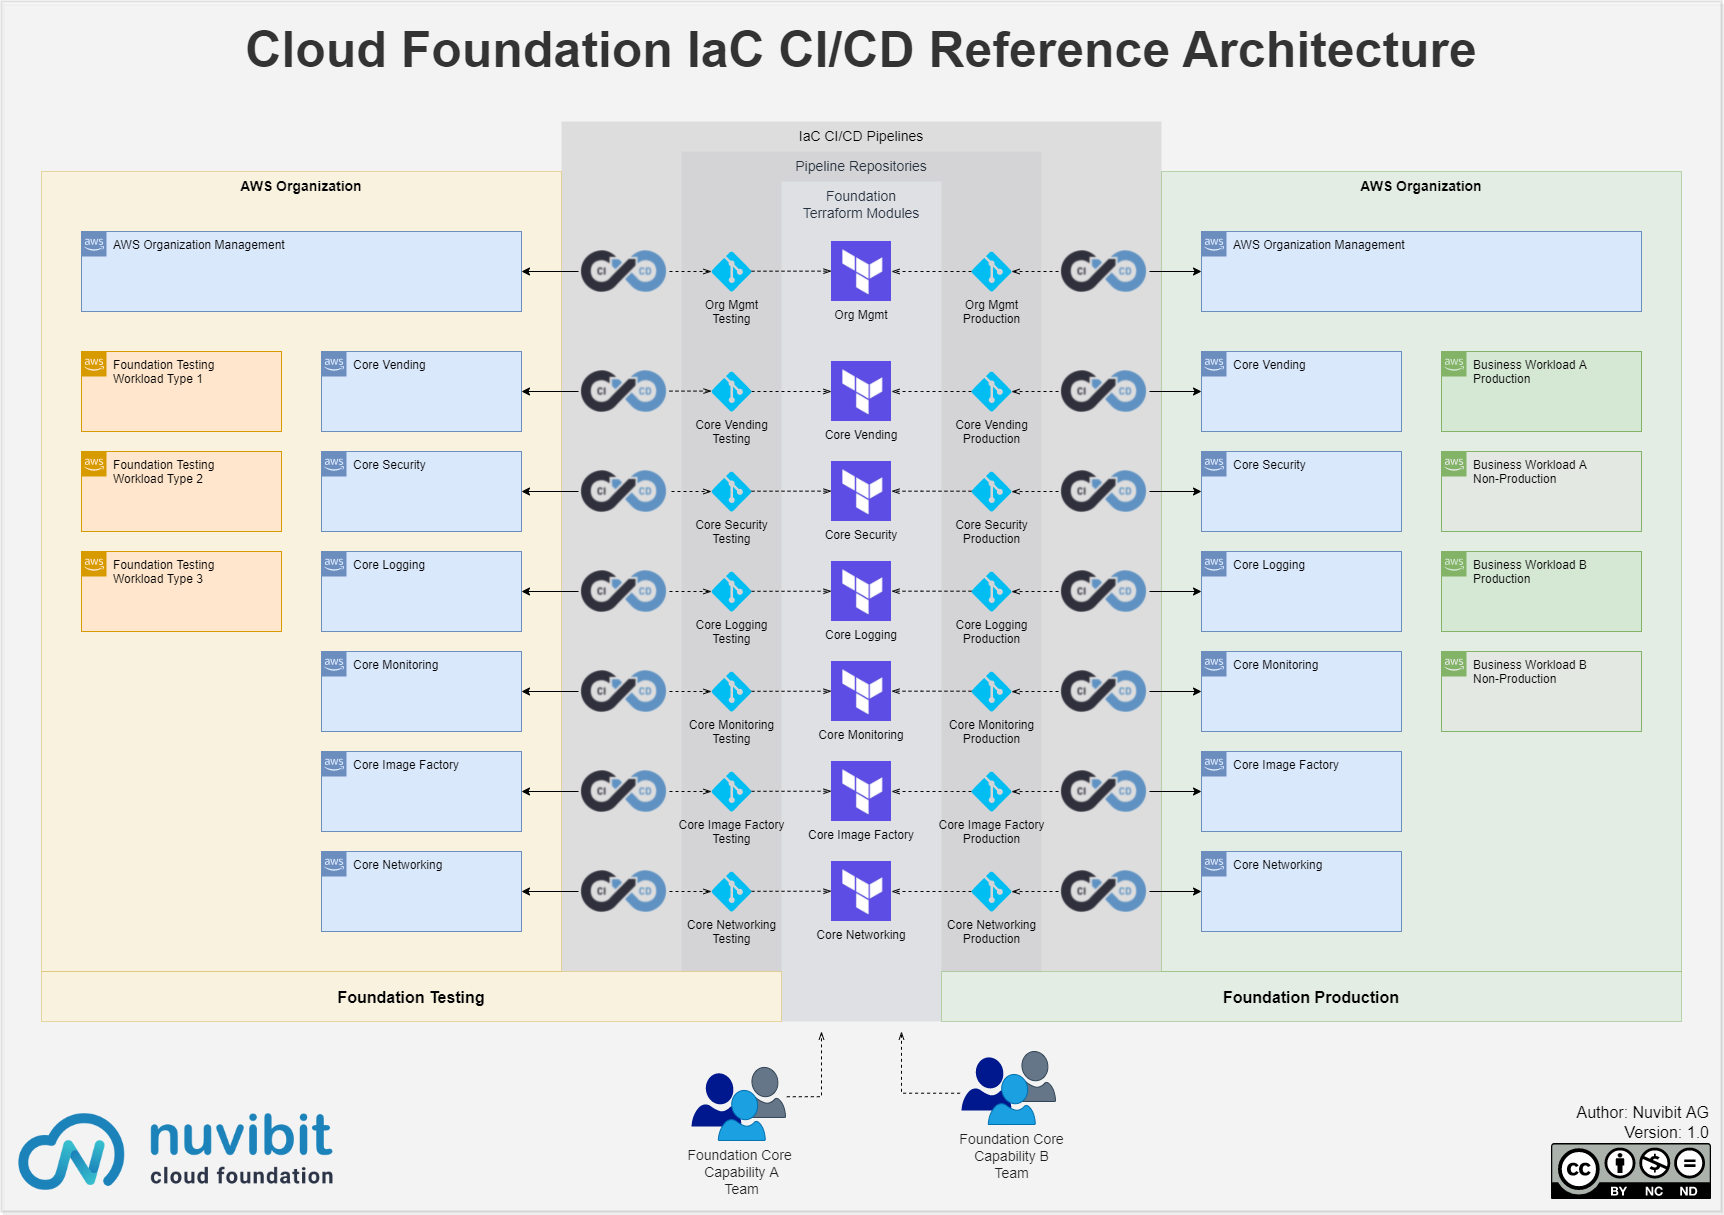
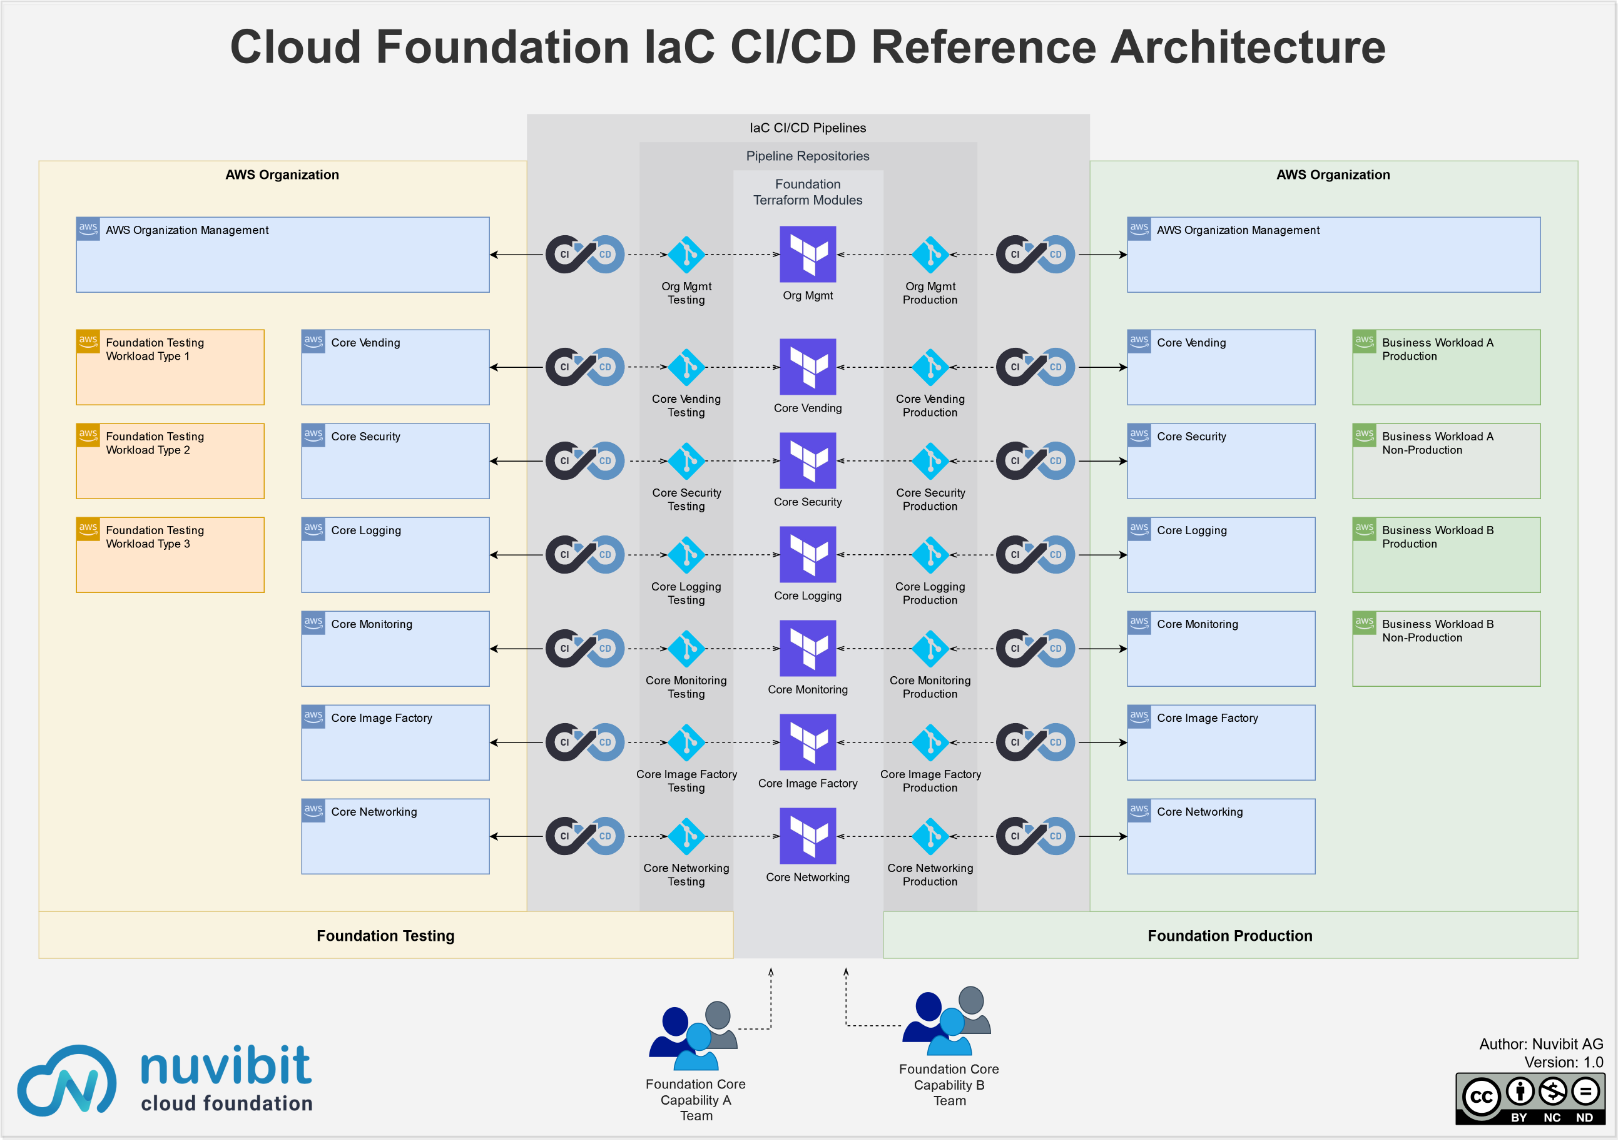
updating images

diff --git a/content/deutsch/blog/aws-foundation-testing.md b/content/deutsch/blog/aws-foundation-testing.md
@@ -36,7 +36,7 @@ Each of these repositories has its own CI/CD pipeline which is responsible for d
 
 The only difference in the CI/CD pipeline configuration is that some point to a separate identical AWS environment.
 
-![img](images/blog/aws-foundation-testing/aws-foundation-cicd-reference-architecture.png)
+![img](images/blog/aws-foundation-testing/aws-foundation-cicd-reference-architecture-highres.png)
 
 ## Conclusion
 

diff --git a/content/english/blog/aws-foundation-testing.md b/content/english/blog/aws-foundation-testing.md
@@ -36,7 +36,7 @@ Each of these repositories has its own CI/CD pipeline which is responsible for d
 
 The only difference in the CI/CD pipeline configuration is that some point to a separate identical AWS environment.
 
-![img](images/blog/aws-foundation-testing/aws-foundation-cicd-reference-architecture.png)
+![img](images/blog/aws-foundation-testing/aws-foundation-cicd-reference-architecture-highres.png)
 
 ## Conclusion
 
